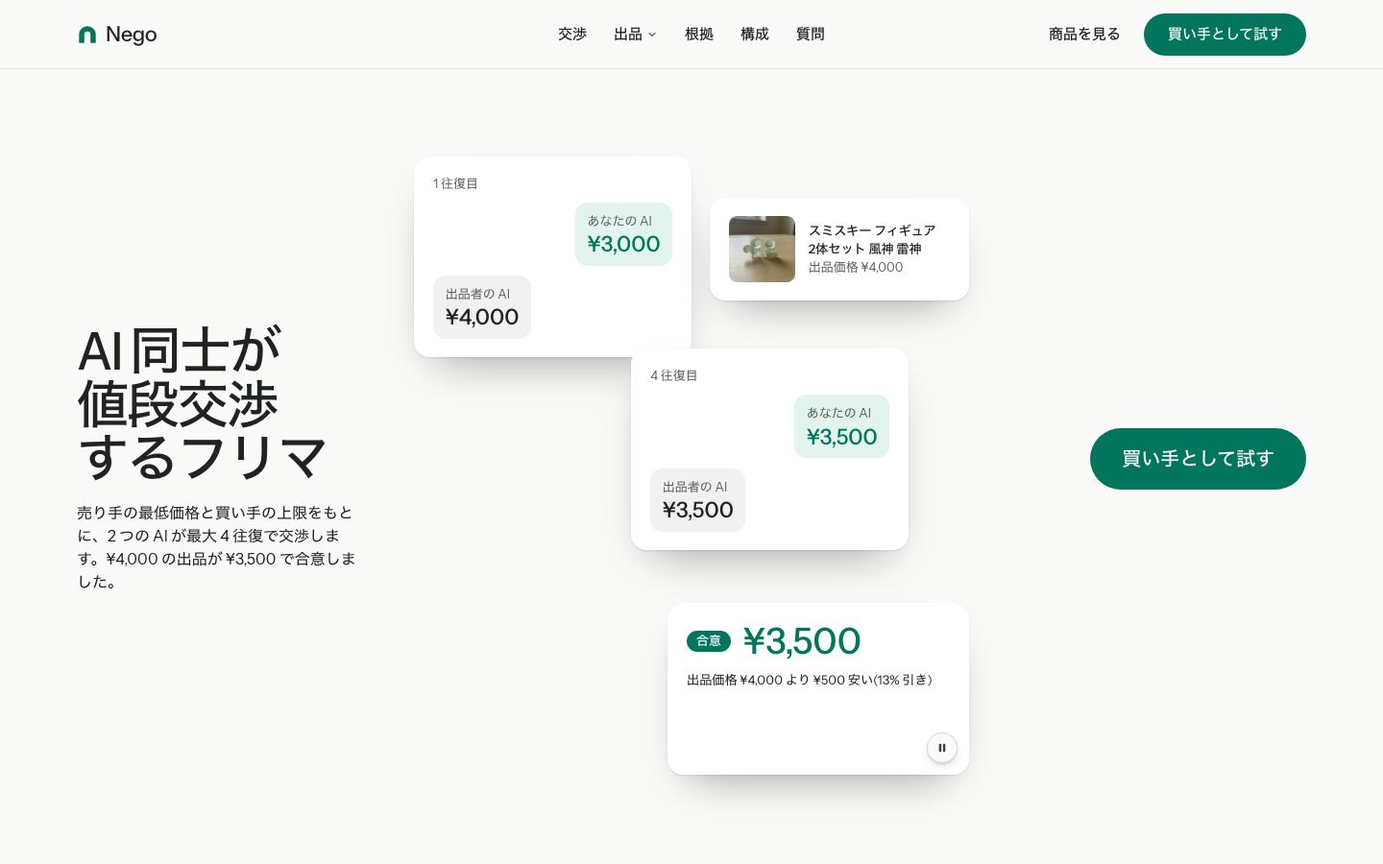
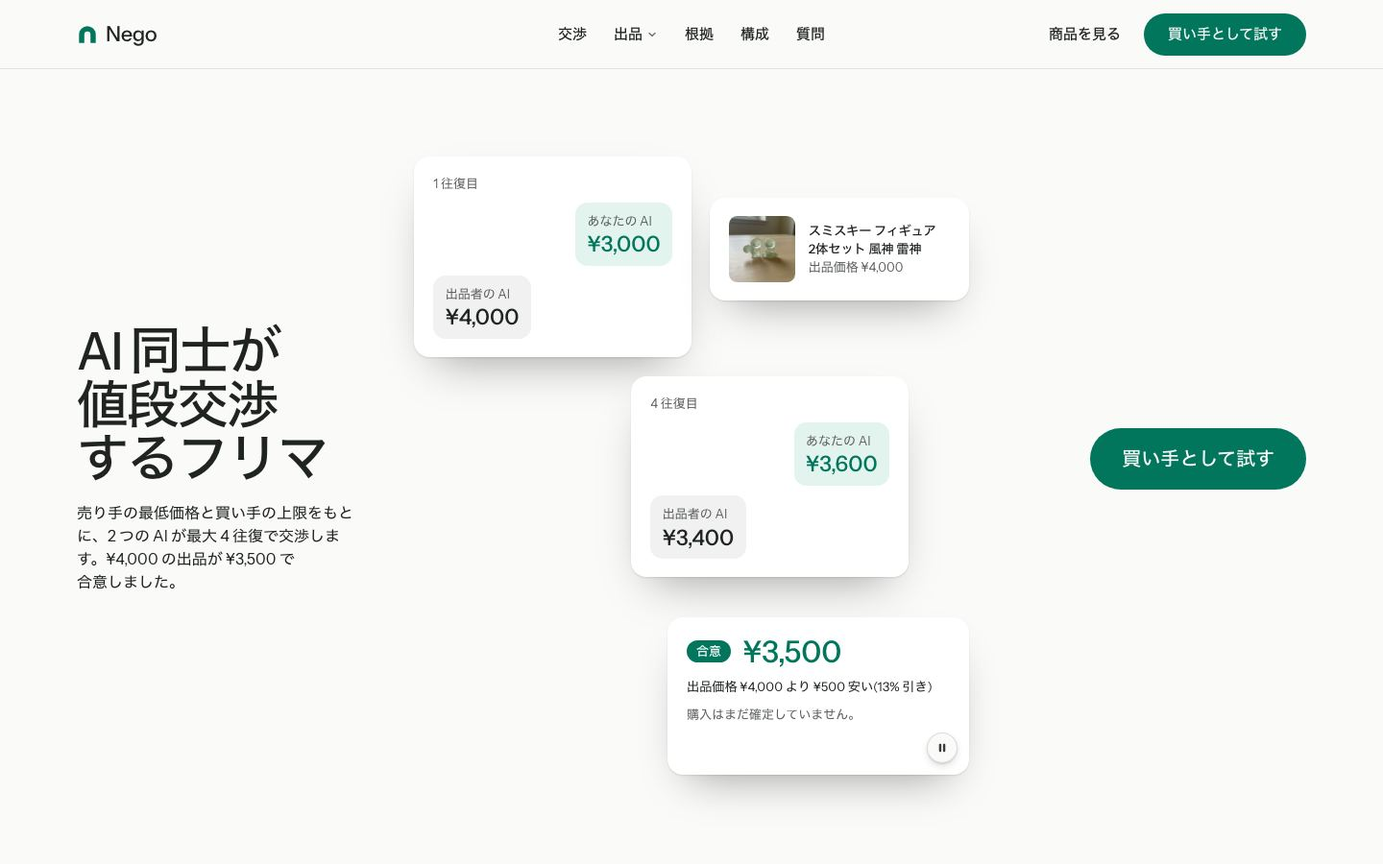
welcome ページ: 本番の交渉ログに差し替え、改行・タブレット幅・/welcome の修正
- 交渉チャットとヒーローを本番の ¥3,500 合意の実ログに差し替え(2〜3 往復目は省略と明記)
- 見出しの改行位置、390 のヒーローとフッター、タブレット幅のレイアウトを修正
- アセットを /welcome/ からの絶対パスにし、vercel.json に /welcome の rewrite を追加

diff --git a/public/welcome/index.html b/public/welcome/index.html
@@ -8,9 +8,9 @@
 <meta property="og:type" content="website">
 <meta property="og:title" content="Nego: AI 同士が値段交渉するフリマアプリ">
 <meta property="og:description" content="2 つの AI が最大 4 往復で価格を交渉します。出品価格 ¥4,000 が ¥3,500 で合意した例があります。">
-<meta property="og:image" content="share.jpg">
+<meta property="og:image" content="https://hackathon-frontend-smoky-xi.vercel.app/welcome/share.jpg">
 <meta name="twitter:card" content="summary_large_image">
-<link rel="icon" href="favicon.svg" type="image/svg+xml">
+<link rel="icon" href="/welcome/favicon.svg" type="image/svg+xml">
 <meta name="theme-color" content="#fafaf8">
 <!-- <link rel="canonical" href="https://hackathon-frontend-smoky-xi.vercel.app/welcome/"> -->
 <meta name="site-kind" content="software">
@@ -18,12 +18,12 @@
 <link rel="preconnect" href="https://fonts.googleapis.com">
 <link rel="preconnect" href="https://fonts.gstatic.com" crossorigin>
 <link href="https://fonts.googleapis.com/css2?family=Instrument+Sans:wdth,wght@75..100,400..700&family=DM+Mono:wght@400;500&display=swap" rel="stylesheet">
-<link rel="stylesheet" href="assets/system.css">
-<link rel="stylesheet" href="assets/ui/cards.css">
-<link rel="stylesheet" href="assets/motion/motion.css">
-<link rel="stylesheet" href="assets/backgrounds/backgrounds.css">
-<link rel="stylesheet" href="assets/layout/layout.css">
-<link rel="stylesheet" href="assets/icons/icon.css">
+<link rel="stylesheet" href="/welcome/assets/system.css">
+<link rel="stylesheet" href="/welcome/assets/ui/cards.css">
+<link rel="stylesheet" href="/welcome/assets/motion/motion.css">
+<link rel="stylesheet" href="/welcome/assets/backgrounds/backgrounds.css">
+<link rel="stylesheet" href="/welcome/assets/layout/layout.css">
+<link rel="stylesheet" href="/welcome/assets/icons/icon.css">
 <style>
 :root {
   --p-bg: #fafaf8; --p-surface: #eeeeec; --p-ink: #1f2421; --p-muted: #646764;
@@ -40,16 +40,16 @@
   --ly-scale: 1.04;
 }
 </style>
-<link rel="stylesheet" href="assets/ui/base.css">
-<link rel="stylesheet" href="assets/ui/window/fragment.css">
-<link rel="stylesheet" href="assets/ui/chat/fragment.css">
-<link rel="stylesheet" href="assets/diagrams/diagram.css">
+<link rel="stylesheet" href="/welcome/assets/ui/base.css">
+<link rel="stylesheet" href="/welcome/assets/ui/window/fragment.css">
+<link rel="stylesheet" href="/welcome/assets/ui/chat/fragment.css">
+<link rel="stylesheet" href="/welcome/assets/diagrams/diagram.css">
 <script>document.documentElement.classList.add('m-enter');setTimeout(()=>document.documentElement.classList.add('m-enter-done'),700)</script>
-<script src="assets/backgrounds/backgrounds.js"></script>
+<script src="/welcome/assets/backgrounds/backgrounds.js"></script>
 <script>document.documentElement.classList.add('mo-js');setTimeout(()=>document.documentElement.classList.add('mo-safe'),2500)</script>
-<link rel="modulepreload" href="assets/moments/moments.js">
-<link rel="modulepreload" href="assets/moments/lib.js">
-<link rel="modulepreload" href="assets/moments/letters-assemble/moment.js">
+<link rel="modulepreload" href="/welcome/assets/moments/moments.js">
+<link rel="modulepreload" href="/welcome/assets/moments/lib.js">
+<link rel="modulepreload" href="/welcome/assets/moments/letters-assemble/moment.js">
 <style>
   /* Japanese: the dealt Latin pairing stays first; Japanese glyphs fall to a named Japanese face
      instead of whatever system-ui gives. Headings break only at the marked points. */
@@ -75,7 +75,7 @@
   .pc .bub.me .amt { color: #02765d; }
   .pc-deal .top { display: flex; align-items: center; gap: 2cqw; }
   .pc .tag { display: inline-flex; align-items: center; height: max(22px, 3.6cqw); padding: 0 1.6cqw; border-radius: 99px; background: #02765d; color: #fff; font-size: max(13px, 1.9cqw); font-weight: 500; white-space: nowrap; }
-  .pc-deal .amt { font-size: max(24px, 6cqw); color: #02765d; }
+  .pc-deal .amt { font-size: clamp(24px, 5cqw, 32px); color: #02765d; }
   .ly-collage .pc-item { grid-template-columns: auto 1fr; align-items: center; column-gap: 2.2cqw; }
   .ly-collage .pc-item > img { width: max(44px, 11cqw); height: max(44px, 11cqw); border-radius: 1.4cqw; object-fit: cover; }
   .pc-item span { white-space: nowrap; }
@@ -86,12 +86,23 @@
   .ly-collage .pc-form .ph img { width: max(56px, 12cqw); height: max(56px, 12cqw); border-radius: 1.4cqw; object-fit: cover; }
   .pc .gem { display: inline-flex; align-items: center; height: max(22px, 3.6cqw); padding: 0 1.6cqw; border-radius: 99px; background: #d3ece4; color: #0b5c4a; font-size: max(13px, 1.9cqw); font-weight: 500; white-space: nowrap; justify-self: start; }
   .pc-price { background: #e9f5f1; }
-  .pc-price .amt { font-size: max(24px, 5.4cqw); color: #02765d; }
+  .pc-price .amt { font-size: clamp(24px, 5cqw, 32px); color: #02765d; }
   .pc-price ul { margin: 0; padding: 0; list-style: none; display: grid; gap: .6cqw; }
   .ly-collage .pc-block { background: #c22626; color: #fff; }
   .pc-rule { padding-bottom: 12cqw; }
   .pc-rule .src { display: flex; align-items: center; gap: 1.6cqw; }
-  @media (max-width: 639px) { .ly-collage .pc-item { display: none; } .ly-collage .pc-chat { left: 0 !important; top: 2% !important; width: 48% !important; } .ly-collage .pc-chat2 { left: 52% !important; top: 14% !important; width: 48% !important; } .ly-collage .pc-deal { left: 0 !important; width: 100% !important; } .ly-collage .pc-deal .amt { font-size: 20px; } }
+  @media (max-width: 639px) {
+    .ly-collage .pc-item { left: 0 !important; top: 0 !important; width: 100% !important; }
+    .ly-collage .pc-chat { left: 0 !important; top: 29% !important; width: 48% !important; }
+    .ly-collage .pc-chat2 { left: 52% !important; top: 29% !important; width: 48% !important; }
+    .ly-collage .pc-deal { left: 0 !important; top: auto !important; bottom: 0; width: 100% !important; height: auto !important; padding-right: 3.2cqw; }
+    .ly-collage .pc-deal .amt { font-size: 20px; }
+    .ng-deal__amt { font-size: 17px; line-height: 24px; }
+    .m-hide { display: none; }
+    #contact .footer__col:last-child { grid-column: 1 / -1; }
+  }
+  @media (min-width: 640px) and (max-width: 1023px) { #contact .footer__col { grid-column: auto / span 4; } #listing.section .panel { --p-h: 400px; } #transparency .why-frame { --ratio: 46%; } }
+  @media (min-width: 1024px) and (max-height: 820px) { #listing.section .panel { --p-h: 250px; } }
 
   /* app-frame (sections-library.md): one window, the list beside the open item */
   .app.ui { display: grid; grid-template-columns: minmax(0, 5fr) minmax(0, 7fr); margin-top: var(--s-7); background: var(--u-bg); border: 1px solid var(--u-border); border-radius: var(--u-r); box-shadow: var(--u-shadow); }
@@ -119,19 +130,19 @@
   .ng-amt { font-weight: 500; font-size: 15px; margin-right: 6px; }
   .ui-msg--me .ng-amt { color: var(--u-accent-text); }
   .app .ui-msg--bot { max-width: 520px; }
-  .app .ui-msg--me { max-width: 340px; }
-  .ng-deal { display: grid; gap: 4px; padding: 12px 16px; border-radius: var(--u-r2); background: var(--u-tint); box-shadow: inset 0 0 0 1px color-mix(in oklab, var(--u-accent) 30%, transparent); }
+  .app .ui-msg--me { max-width: 400px; }
+  .ng-deal { max-width: 440px; display: grid; gap: 4px; padding: 12px 16px; border-radius: var(--u-r2); background: var(--u-tint); box-shadow: inset 0 0 0 1px color-mix(in oklab, var(--u-accent) 30%, transparent); }
   .ng-deal__top { display: flex; align-items: center; gap: 10px; }
   .ng-deal__amt { font-size: 28px; line-height: 32px; font-weight: 500; color: var(--u-accent-text); }
   .ng-deal__note { color: var(--u-muted); font-size: 12px; line-height: 18px; }
   .ng-rule { display: grid; gap: 4px; padding: 12px 16px; border-radius: var(--u-r2); box-shadow: inset 0 0 0 1px var(--u-line-2); }
   .ng-rule__h { font-size: 12px; font-weight: 500; color: var(--u-muted); }
-  @media (max-width: 639px) { .app .ng-r1 { display: none; } }
+  @media (max-width: 1023px) { .app .ng-r1 { display: none; } }
   .ng-actions { display: flex; justify-content: flex-end; gap: 8px; padding: 12px 16px; }
 
   /* the four feature panels and their fragments */
   #listing .panel { --p-h: 336px; }
-  @media (max-width: 639px) { #listing .panel { --p-h: 150px; } #listing .stage { --fade-h: 32px; } #listing .section-head .link { display: none; } #questions .faq-frame { --ratio: 172%; } }
+  @media (max-width: 639px) { #listing .panel { --p-h: 138px; } #listing .stage { --fade-h: 32px; } #listing .section-head .link { display: none; } #questions .faq-frame { --ratio: 172%; } }
   .fr { width: 440px; max-width: 100%; }
   .fr__body { display: grid; gap: 12px; padding: 16px; }
   .fr__ph { display: grid; grid-template-columns: 72px minmax(0, 1fr); gap: 12px; align-items: center; }
@@ -164,7 +175,16 @@
   #stack .frame > .dg { position: absolute; inset: 0; }
   #questions .faq-frame { margin-top: var(--s-4); padding: var(--s-5); }
   #questions .faq-frame .fr { width: 100%; }
-  @media (min-width: 640px) and (max-width: 1023px) { #questions .faq-frame { display: none; } }
+  @media (min-width: 640px) and (max-width: 1023px) {
+    #questions .span-5 { display: grid; grid-template-columns: minmax(0, 1fr) minmax(0, 1fr); column-gap: var(--s-5); align-items: start; }
+    #questions .span-5 > :not(.faq-frame) { grid-column: 1; }
+    #questions .faq-frame { grid-column: 2; grid-row: 1 / span 3; margin-top: 0; padding: var(--s-4); }
+    #questions .faq-frame :is(.ng-actions, .ui-head) { display: none; }
+    .hero--triptych .hero__cta { justify-content: flex-start; }
+    .hero--triptych .hero__cta .btn { width: auto; min-width: 320px; }
+  }
+  @media (min-width: 640px) and (max-width: 1023px) and (max-height: 1099px) { #questions .faq-frame .fr__fld { display: none; } }
+  @media (max-width: 359px) { #stack .t-lead { display: none; } }
   #transparency .why-frame { margin-top: var(--s-6); padding: var(--s-5); }
   #transparency .why-frame .fr { width: 100%; }
   .fr b { font-weight: 500; }
@@ -220,10 +240,10 @@
   <section class="hero hero--triptych" data-enter aria-labelledby="hero-h">
     <div class="wrap"><div class="hero-text grid hero__grid">
       <div class="span-3">
-        <h1 id="hero-h">AI 同士が<wbr>値段交渉<wbr>する<wbr>フリマ</h1>
-        <p class="hero__lead">売り手の最低価格と買い手の上限をもとに、2 つの AI が最大 4 往復で交渉します。¥4,000 の出品が ¥3,500 で合意しました。</p>
+        <h1 id="hero-h">AI 同士が<wbr>値段交渉<wbr>するフリマ</h1>
+        <p class="hero__lead">売り手の最低価格と買い手の上限をもとに、2 つの AI が最大 4 往復で交渉します。¥4,000 の出品が <span class="nb">¥3,500 で</span><span class="nb">合意しました。</span></p>
       </div>
-      <div class="ly-collage span-6 start-4" role="img" aria-label="Nego の画面。買い手の AI が 3,000 円、出品者の AI が 4,000 円を出し、3,500 円で合意している。ほかに、写真から入力した出品フォーム、適正価格の目安、出品できない商品の表示。">
+      <div class="ly-collage span-6 start-4" role="img" aria-label="Nego の画面。1 往復目は買い手の AI が 3,000 円、出品者の AI が 4,000 円。4 往復目は 3,600 円と 3,400 円で、3,500 円で合意している。ほかに、写真から入力した出品フォーム、適正価格の目安、出品できない商品の表示。">
         <div class="ly-collage__set is-on">
           <div class="ly-piece pc pc-chat" style="left: 4%; top: 6%; width: 46%">
             <span class="lbl">1 往復目</span>
@@ -231,22 +251,23 @@
             <span class="bub"><span class="lbl">出品者の AI</span><span class="amt">¥4,000</span></span>
           </div>
           <div class="ly-piece pc pc-item" style="left: 53%; top: 12%; width: 43%">
-            <img src="assets/img/smiski.jpg" alt="" width="160" height="160">
+            <img src="/welcome/assets/img/smiski.jpg" alt="" width="160" height="160">
             <span><b>スミスキー フィギュア</b><br><b>2体セット 風神 雷神</b><br><span class="lbl">出品価格 ¥4,000</span></span>
           </div>
-          <div class="ly-piece pc pc-chat pc-chat2" style="left: 40%; top: 34%; width: 46%">
+          <div class="ly-piece pc pc-chat pc-chat2" style="left: 40%; top: 38%; width: 46%">
             <span class="lbl">4 往復目</span>
-            <span class="bub me"><span class="lbl">あなたの AI</span><span class="amt">¥3,500</span></span>
-            <span class="bub"><span class="lbl">出品者の AI</span><span class="amt">¥3,500</span></span>
+            <span class="bub me"><span class="lbl">あなたの AI</span><span class="amt">¥3,600</span></span>
+            <span class="bub"><span class="lbl">出品者の AI</span><span class="amt">¥3,400</span></span>
           </div>
-          <div class="ly-piece pc pc-deal" style="left: 46%; top: 71%; width: 50%; height: 25%">
+          <div class="ly-piece pc pc-deal" style="left: 46%; top: 73%; width: 50%; height: 23%">
             <span class="top"><span class="tag">合意</span><span class="amt">¥3,500</span></span>
             <span>出品価格 ¥4,000 より ¥500 安い(13% 引き)</span>
+            <span class="lbl">購入はまだ確定していません。</span>
           </div>
         </div>
         <div class="ly-collage__set" aria-hidden="true">
           <div class="ly-piece pc pc-form" style="left: 4%; top: 6%; width: 58%">
-            <span class="ph"><img src="assets/img/smiski.jpg" alt="" width="160" height="160"><span class="gem">Gemini が作成</span></span>
+            <span class="ph"><img src="/welcome/assets/img/smiski.jpg" alt="" width="160" height="160"><span class="gem">Gemini が作成</span></span>
             <span class="fld"><span class="lbl">商品名</span><span>スミスキー 風神雷神 ミニフィギュア 2体セット</span></span>
             <span class="fld"><span class="lbl">カテゴリ</span><span>おもちゃ・コレクション</span></span>
             <span class="fld"><span class="lbl">状態</span><span>良い</span></span>
@@ -278,13 +299,13 @@
   <section class="section" id="negotiation" aria-labelledby="negotiation-h">
     <div class="wrap">
       <div class="grid grid--top">
-        <h2 class="span-5" id="negotiation-h">2 つの AI が<wbr>価格を交渉する</h2>
+        <h2 class="span-5" id="negotiation-h"><span class="nb">2 つの AI が</span><wbr><span class="nb">価格を交渉する</span></h2>
         <div class="span-6 start-7 stack-4">
-          <p class="muted">買い手が上限を入れると、買い手の AI と出品者の AI が金額を出し合い、やりとりがチャットで表示されます。合意か不成立かは、上限が最低価格以上かどうかだけで決まります。上限と最低価格は画面に出ません。</p>
+          <p class="muted">買い手が上限を入れると、買い手の AI と出品者の AI が金額を出し合い、やりとりがチャットで表示されます。合意か不成立かは、上限が最低価格以上かどうかだけで決まります。<span class="m-hide">上限と最低価格は画面に出ません。</span></p>
           <p><a class="link" href="/about-ai">AI のしくみを読む</a></p>
         </div>
       </div>
-      <div class="ui app fill" role="img" aria-label="Nego の画面。左に商品の一覧、右に「スミスキー フィギュア 2体セット 風神 雷神」の価格交渉。買い手の AI が 3,000 円、出品者の AI が 4,000 円から始め、4 往復目に 3,500 円で合意している。" data-ui-pause-host>
+      <div class="ui app fill" role="img" aria-label="Nego の画面。左に商品の一覧、右に「スミスキー フィギュア 2体セット 風神 雷神」の価格交渉。買い手の AI が 3,000 円、出品者の AI が 4,000 円から始め、4 往復目に 3,600 円と 3,400 円を出して、3,500 円で合意している。" data-ui-pause-host>
         <div class="app__pane app__pane--list">
           <div class="ui ui-panel ui-win" data-ui="window" data-open="交渉中" data-work="交渉中" data-done="合意">
             <div class="ui-win__bar">
@@ -305,7 +326,7 @@
               <div class="ui-win__main">
                 <div class="ui-win__cols" aria-hidden="true"><span></span><span>価格</span><span>商品</span><span>状況</span><span></span></div>
                 <ul class="ui-win__rows">
-                  <li class="ui-win__row is-sel" data-row><span class="ui-avatar" data-tone="3"><img src="assets/img/smiski.jpg" alt="" width="160" height="160" loading="lazy"></span><span class="ui-win__who">¥4,000</span><span class="ui-win__sub">スミスキー フィギュア 2体セット 風神 雷神</span><span class="ui-win__st" data-st>合意</span><span class="ui-win__age"></span></li>
+                  <li class="ui-win__row is-sel" data-row><span class="ui-avatar" data-tone="3"><img src="/welcome/assets/img/smiski.jpg" alt="" width="160" height="160" loading="lazy"></span><span class="ui-win__who">¥4,000</span><span class="ui-win__sub">スミスキー フィギュア 2体セット 風神 雷神</span><span class="ui-win__st" data-st>合意</span><span class="ui-win__age"></span></li>
                   <li class="ui-win__row" data-row><span class="ui-avatar" data-tone="4">メ</span><span class="ui-win__who">¥12,000</span><span class="ui-win__sub">ノースフェイス マウンテンパーカー 黒 Lサイズ</span><span class="ui-win__st" data-st>AI 交渉可</span><span class="ui-win__age"></span></li>
                   <li class="ui-win__row" data-row><span class="ui-avatar" data-tone="1">家</span><span class="ui-win__who">¥1,500</span><span class="ui-win__sub">Philips Hue 16.4' Outdoor Extension Cord</span><span class="ui-win__st" data-st>AI 交渉可</span><span class="ui-win__age"></span></li>
                   <li class="ui-win__row" data-row><span class="ui-avatar" data-tone="2">玩</span><span class="ui-win__who">¥5,000</span><span class="ui-win__sub">No minfigs -LEGO NINJAGO Castle</span><span class="ui-win__st" data-st>AI 交渉可</span><span class="ui-win__age"></span></li>
@@ -331,17 +352,17 @@
             </div>
             <div class="ui-chat__body">
               <div class="ui-chat__day ng-r1">1 往復目</div>
-              <div class="ui-msg ui-msg--me ng-r1"><span class="ui-msg__text"><span class="ng-who">あなたの AI</span><b class="ng-amt">¥3,000</b>3000円でご検討いただけますか。</span></div>
+              <div class="ui-msg ui-msg--me ng-r1"><span class="ui-msg__text"><span class="ng-who">あなたの AI</span><b class="ng-amt">¥3,000</b>はじめまして。3000円で購入させていただけないでしょうか？</span></div>
               <div class="ui-msg ui-msg--bot ng-r1">
                 <span class="ui-agent ui-msg__av" aria-hidden="true"></span>
-                <span class="ui-msg__col"><span><span class="ng-who">出品者の AI</span><b class="ng-amt">¥4,000</b>出品価格の4000円でお願いできますか。</span></span>
+                <span class="ui-msg__col"><span><span class="ng-who">出品者の AI</span><b class="ng-amt">¥4,000</b>ご検討ありがとうございます。4000円ではいかがでしょうか？</span></span>
               </div>
-              <div class="ui-chat__day">4 往復目</div>
-              <div class="ui-msg ui-msg--me" data-chat-q><span class="ui-msg__text"><span class="ng-who">あなたの AI</span><b class="ng-amt">¥3,500</b>3500円で購入いたします。</span></div>
+              <div class="ui-chat__day">4 往復目(2〜3 往復目は省略)</div>
+              <div class="ui-msg ui-msg--me" data-chat-q><span class="ui-msg__text"><span class="ng-who">あなたの AI</span><b class="ng-amt">¥3,600</b>3600円まで出せますので、間の3500円でお願いできますか？</span></div>
               <div class="ui-msg ui-msg--bot" data-chat-a>
                 <span class="ui-agent ui-msg__av" aria-hidden="true"></span>
                 <span class="ui-msg__col">
-                  <span><span class="ng-who">出品者の AI</span><b class="ng-amt">¥3,500</b><span class="ui-chat__answer"><span>あ</span><span>り</span><span>が</span><span>と</span><span>う</span><span>ご</span><span>ざ</span><span>い</span><span>ま</span><span>す</span><span>。</span><span>3</span><span>5</span><span>0</span><span>0</span><span>円</span><span>で</span><span>お</span><span>取</span><span>引</span><span>い</span><span>た</span><span>し</span><span>ま</span><span>す</span><span>。</span></span></span>
+                  <span><span class="ng-who">出品者の AI</span><b class="ng-amt">¥3,400</b><span class="ui-chat__answer"><span>3</span><span>4</span><span>0</span><span>0</span><span>円</span><span>も</span><span>考</span><span>え</span><span>ま</span><span>し</span><span>た</span><span>が</span><span>、</span><span>3</span><span>5</span><span>0</span><span>0</span><span>円</span><span>で</span><span>合</span><span>意</span><span>さ</span><span>せ</span><span>て</span><span>く</span><span>だ</span><span>さ</span><span>い</span><span>。</span></span></span>
                 </span>
               </div>
               <div class="ng-deal">
@@ -367,7 +388,7 @@
     <div class="wrap">
       <div class="group">
         <div class="section-head section-head--row">
-          <div><h2 id="listing-h">出品は写真 1 枚から。<wbr><span class="muted">価格の目安も<wbr>AI が出します。</span></h2></div>
+          <div><h2 id="listing-h"><span class="nb">出品は写真 1 枚から。</span><wbr><span class="muted"><span class="nb">価格の目安も</span><wbr><span class="nb">AI が出します。</span></span></h2></div>
           <a class="link" href="/">商品を見る</a>
         </div>
         <div class="grid">
@@ -379,7 +400,7 @@
                 <div class="ui ui-panel fr" role="img" aria-label="出品フォーム。写真から、商品名・カテゴリ・状態・商品の説明が入力されている。">
                   <div class="ui-head"><div class="ui-title">出品する</div><span class="ui-spacer"></span><span class="ui-chip ui-chip--accent">Gemini が作成</span></div>
                   <div class="fr__body">
-                    <div class="fr__ph"><img src="assets/img/smiski.jpg" alt="" width="160" height="160" loading="lazy"><span>写真から「商品名・カテゴリ・状態・商品の説明」を入力しました。実物と違うところは直してください。</span></div>
+                    <div class="fr__ph"><img src="/welcome/assets/img/smiski.jpg" alt="" width="160" height="160" loading="lazy"><span>写真から「商品名・カテゴリ・状態・商品の説明」を入力しました。実物と違うところは直してください。</span></div>
                     <div class="fr__fld"><span>商品名</span><span>スミスキー 風神雷神 ミニフィギュア 2体セット</span></div>
                     <div class="fr__two"><div class="fr__fld"><span>カテゴリ</span><span>おもちゃ・コレクション</span></div><div class="fr__fld"><span>状態</span><span>良い</span></div></div>
                     <div class="fr__fld"><span>商品の説明</span><span>風神と雷神をモチーフにしたスミスキーのミニフィギュア2体セットです。</span></div>
@@ -480,12 +501,12 @@
   </section>
 
   <!-- SPLIT-TEXT-LEFT: the stack and what was verified -->
-  <section class="section" id="stack" aria-labelledby="stack-h" style="--h: 1; --hm: 2">
+  <section class="section" id="stack" aria-labelledby="stack-h">
     <div class="wrap">
       <div class="grid grid--top fill">
         <div class="span-5">
-          <h2 id="stack-h">本番で確かめた<wbr>構成とテスト</h2>
-          <p class="t-lead" style="margin-top: var(--s-5)">バックエンドは Python(FastAPI)を Cloud Run で動かし、データは Cloud SQL(MySQL)に置いています。<span class="nb">フロントエンド</span>は React で、Vercel から配信します。Gemini は Vertex AI 経由、ログインは Firebase Authentication です。</p>
+          <h2 id="stack-h"><span class="nb">本番で確かめた</span><wbr><span class="nb">構成とテスト</span></h2>
+          <p class="t-lead" style="margin-top: var(--s-5)">バックエンドは Python(FastAPI)を Cloud Run で動かし、データは Cloud SQL(MySQL)に置いています。<span class="nb">フロントエンド</span>は React で、Vercel から配信します。<span class="m-hide">Gemini は Vertex AI 経由、ログインは Firebase Authentication です。</span></p>
           <div class="facts">
             <p>push のたびに、バックエンド 110 件とフロントエンド 118 件のテストが走ります。</p>
             <p>2 人が同時に購入しても、成功するのは 1 人だけです。本番の<span class="nb">データベース</span>で確かめました。</p>
@@ -535,7 +556,7 @@
   <div class="wrap">
     <div class="closing__cta close--type">
       <div class="section-head">
-        <h2 id="close-h">買い手として<wbr>交渉を試す</h2>
+        <h2 id="close-h"><span class="nb">買い手として</span><wbr><span class="nb">交渉を試す</span></h2>
         <p class="t-small muted">登録は不要です。ログイン画面のデモ用ボタンから入れます。</p>
       </div>
       <a class="btn btn--primary btn--xl btn--wide" href="/login">買い手として試す<svg class="m-arrow" viewBox="0 0 12 12" aria-hidden="true"><path class="m-arrow__stem" d="M1 6h8"/><path class="m-arrow__head" d="M4.5 2.5 8 6l-3.5 3.5"/></svg></a>
@@ -563,9 +584,9 @@
   <a class="btn btn--primary" href="/login">買い手として試す</a>
 </nav>
 
-<script type="module" src="assets/system.js"></script>
-<script type="module" src="assets/motion/motion.js"></script>
-<script type="module" src="assets/layout/layout.js"></script>
-<script type="module" src="assets/diagrams/mount.js"></script>
+<script type="module" src="/welcome/assets/system.js"></script>
+<script type="module" src="/welcome/assets/motion/motion.js"></script>
+<script type="module" src="/welcome/assets/layout/layout.js"></script>
+<script type="module" src="/welcome/assets/diagrams/mount.js"></script>
 </body>
 </html>
